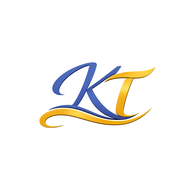
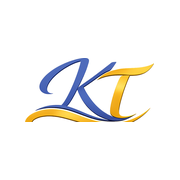
Update admin app

Changed region(s): [[0.1389, 0.3056, 0.8611, 0.7222]]

diff --git a/admin.html b/admin.html
@@ -20,14 +20,15 @@ rel="stylesheet">
 /* KT startup splash — identical on every phone (logo + app name) */
 #kt-splash{position:fixed;top:0;right:0;bottom:0;left:0;z-index:2147483647;background:#ffffff;display:flex;flex-direction:column;align-items:center;justify-content:center;transition:opacity .3s ease}
 #kt-splash.kt-hide{opacity:0;pointer-events:none}
-#kt-splash img{width:128px;height:128px;object-fit:contain;display:block;margin-top:-6vh}
-#kt-splash .kt-splash-name{position:absolute;left:0;right:0;bottom:calc(env(safe-area-inset-bottom,0px) + 11vh);text-align:center;font-family:Roboto,"Segoe UI",system-ui,-apple-system,Arial,sans-serif;font-size:22px;font-weight:400;letter-spacing:.2px;color:#202124}
+#kt-splash img{width:128px;height:128px;object-fit:contain;display:block;margin-top:-4vh}
+#kt-splash .kt-splash-name{position:absolute;left:0;right:0;bottom:calc(env(safe-area-inset-bottom,0px) + 11vh);text-align:center;font-family:Roboto,"Segoe UI",system-ui,-apple-system,Arial,sans-serif;font-size:22px;font-weight:400;letter-spacing:.2px;color:#202124;opacity:0;animation:ktNameIn .35s ease .1s forwards}
+@keyframes ktNameIn{to{opacity:1}}
 </style>
 </head>
 <body>
 
 <div id="kt-splash" aria-hidden="true">
-  <img src="icons/icon-512.png" alt="">
[1 lines of base64/hex data omitted]
   <div class="kt-splash-name">KT Cloud Mining</div>
 </div>
 <script>
